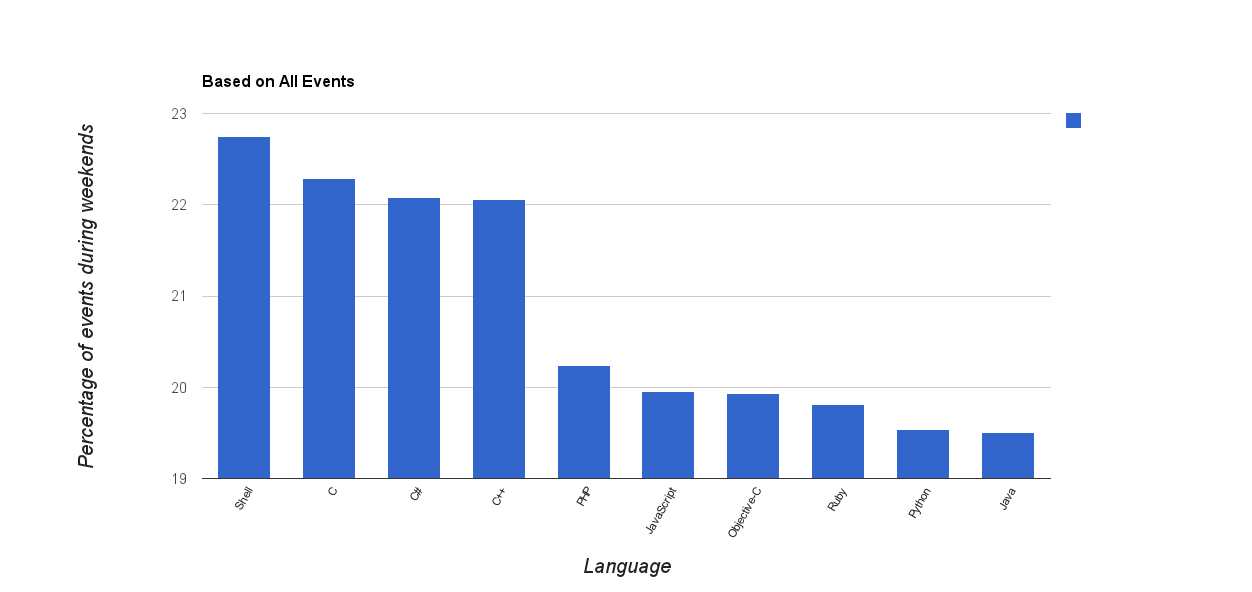
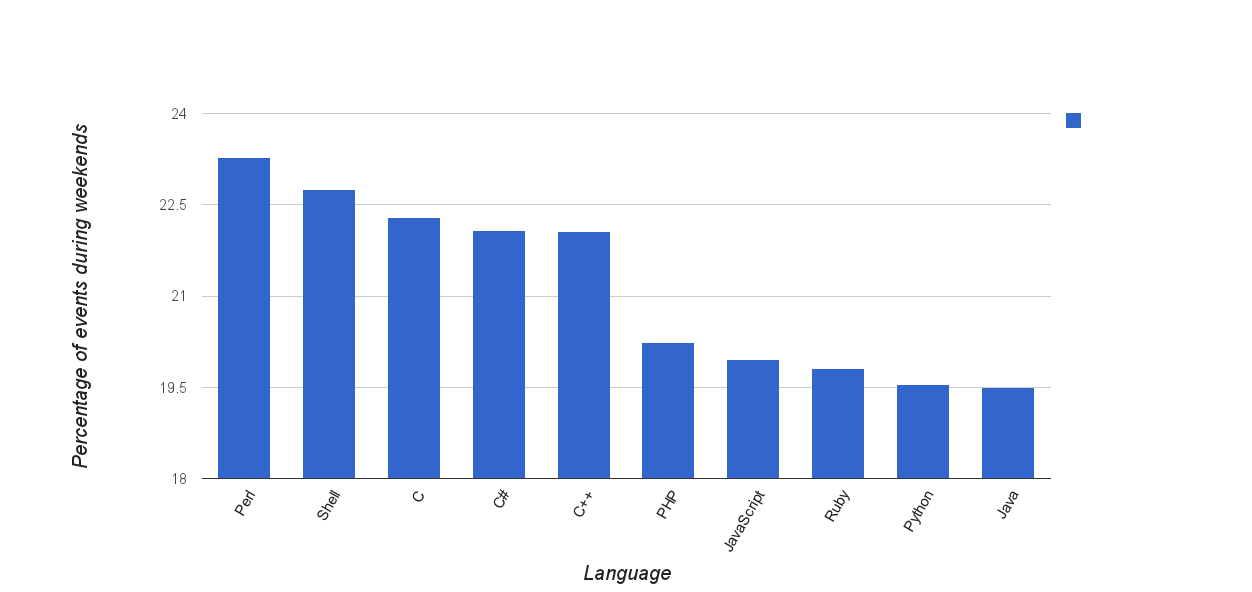
fixing two wrong images

diff --git a/README.md b/README.md
@@ -183,3 +183,5 @@ I started out with some other plans:
 2. There are definitely many programmers who don't use GitHub for their work. So all those repositories are not taken into account (which is probably good).
 3. GitHub classification of languages is not always accurate (see http://datahackermd.com/2013/language-use-on-github/#comment-798271901).
 4. I haven't accounted for different timezones. While it may not be too difficult to account for it, I think its not worth the effort. Only location information of the programmers are recorded, which can be ambiguous/inaccurate. 
+
+Update: Fixed two graphs that were showing erroneous values. Blogged this at [my blog](http://smahesh.com/blog/2013/05/27/popular-weekend-programming-languages/) - might update there with more details.
